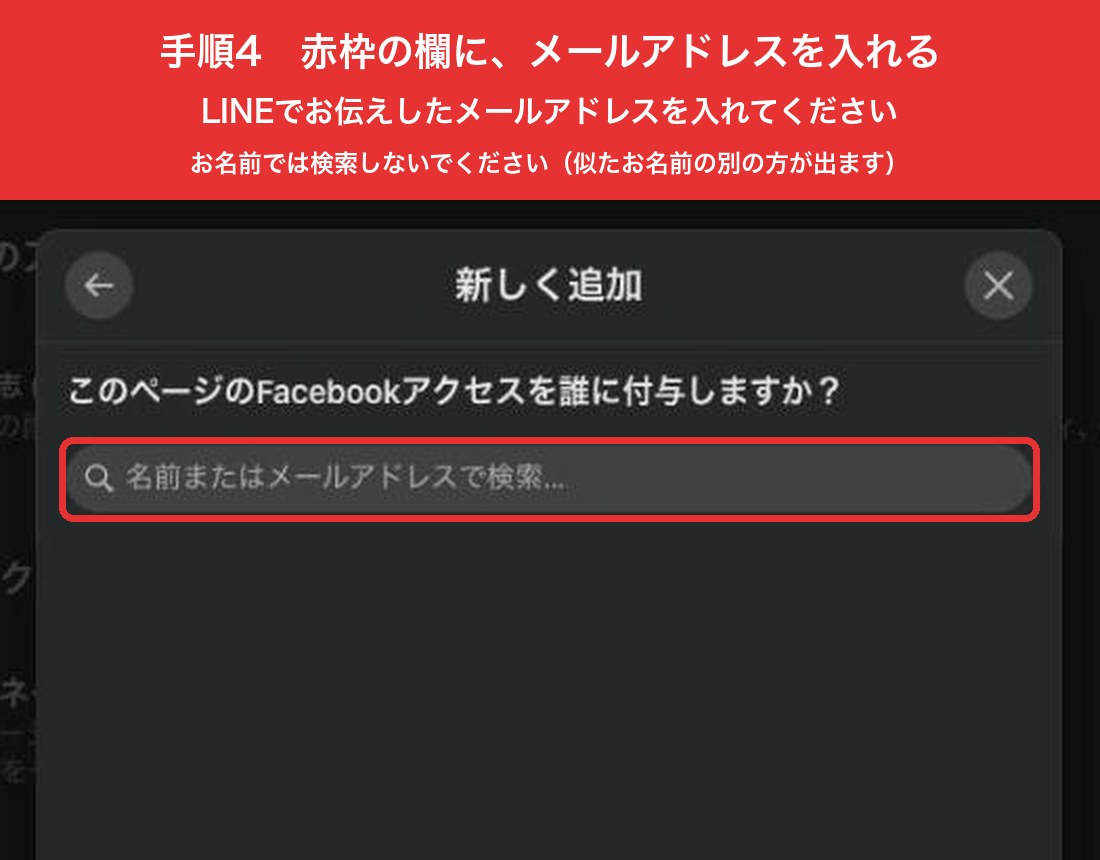
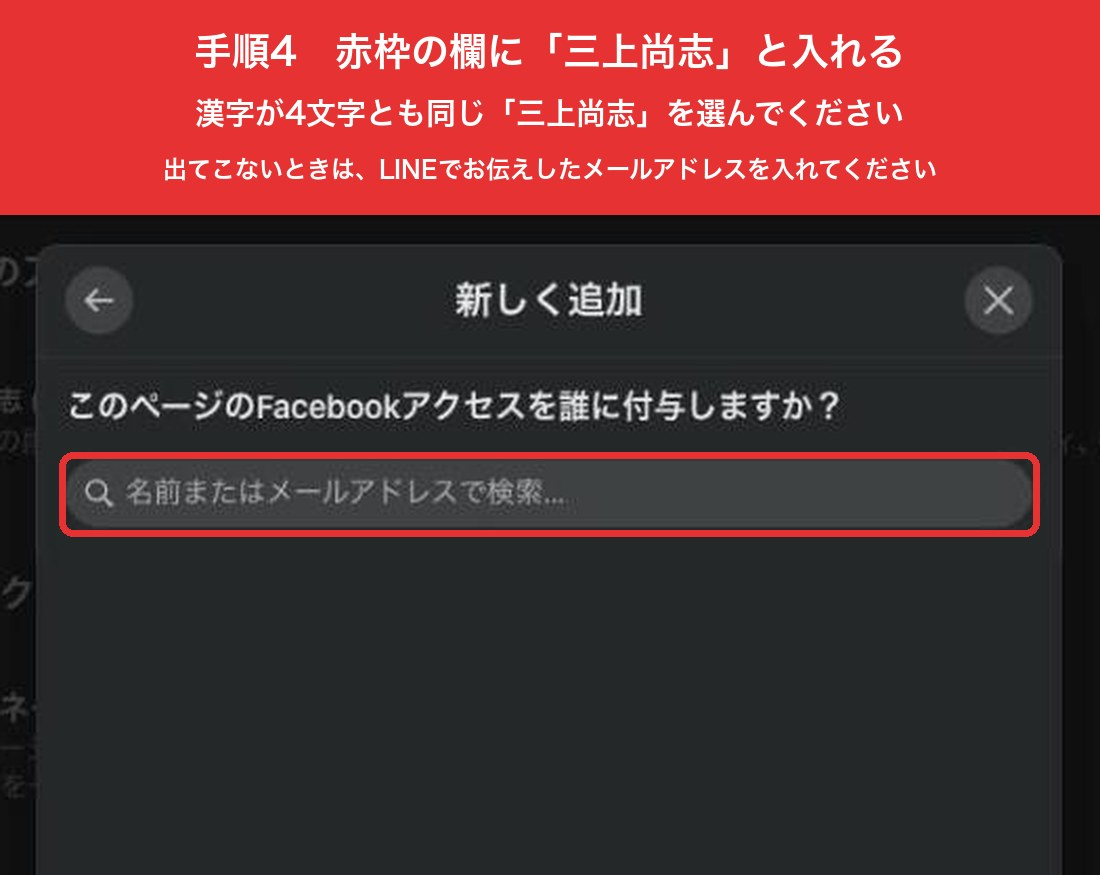
かんたん版：手順4を名前の検索を先に（メールアドレスは予備）。終わったあとの確認を追記
メールアドレスの検索は試し用ページで「マッチする人はいません」と出たため、主の方法にしない。

diff --git a/kengen/kantan/index.html b/kengen/kantan/index.html
@@ -102,7 +102,7 @@ a.ext{color:inherit;text-decoration:underline;text-underline-offset:3px;word-bre
 <li><a href="#s1">手順1　「ページアクセス」を開く</a></li>
 <li><a href="#s2">手順2　「追加」を押す</a></li>
 <li><a href="#s3">手順3　「次へ」を押す</a></li>
-<li><a href="#s4">手順4　メールアドレスで検索する</a></li>
+<li><a href="#s4">手順4　「三上尚志」を検索して選ぶ</a></li>
 <li><a href="#s5">手順5　全権限をオンにして許可する</a></li>
 <li><a href="#done">終わったら</a></li>
 <li><a href="#trouble">うまくいかないとき</a></li>
@@ -114,7 +114,7 @@ a.ext{color:inherit;text-decoration:underline;text-underline-offset:3px;word-bre
 <div class="box info"><b class="h">必要なもの</b><ul>
 <li>パソコン</li>
 <li>お店のFacebookページを管理しているFacebookアカウント（ログインできる状態）</li>
-<li>しっとるからLINEでお伝えしたメールアドレス（手順4で使います）</li>
+<li>しっとるからLINEでお伝えしたメールアドレス（手順4で、お名前が出てこないときに使います）</li>
 </ul></div>
 <div class="box warn"><b class="h">しっとるにお伝えいただかないもの</b><ul>
 <li>Facebookのパスワード</li>
@@ -157,13 +157,14 @@ a.ext{color:inherit;text-decoration:underline;text-underline-offset:3px;word-bre
 </section>
 
 <section class="step one" id="s4">
-<h2><span class="no">手順4</span>メールアドレスで検索する</h2>
+<h2><span class="no">手順4</span>「三上尚志」を検索して選ぶ</h2>
 <ol>
-<li>検索の欄に、<b>しっとるからLINEでお伝えしたメールアドレス</b>を入れます。</li>
-<li>「三上尚志」と出たら、それを押します。</li>
+<li>検索の欄に <b>三上尚志</b> と入れます。</li>
+<li>出てきた中から、<b>漢字が4文字とも同じ「三上尚志」</b>を押します。</li>
 </ol>
-<div class="box warn"><b class="h">お名前では検索しないでください</b><p>お名前で検索すると、似たお名前の別の方が何人も出てきます。まちがえて別の方に権限を渡さないよう、必ずメールアドレスで検索してください。</p></div>
-<figure><img src="k4.jpg" alt="名前またはメールアドレスで検索する欄" width="1100" height="860" loading="lazy"><figcaption>赤枠の欄に、LINEでお伝えしたメールアドレスを入れます</figcaption></figure>
+<div class="box warn"><b class="h">似たお名前の別の方が出てきます</b><p>「三上隆史」「三上貴史」など、読みが近い別の方が並びます。漢字が「三上尚志」と完全に同じものだけを選んでください。</p></div>
+<div class="box info"><b class="h">「三上尚志」が出てこないとき</b><p>検索の欄を消して、しっとるからLINEでお伝えした<b>メールアドレス</b>を入れてみてください。それでも出てこなければ、そこで止めてLINEでお知らせください。</p></div>
+<figure><img src="k4.jpg" alt="名前またはメールアドレスで検索する欄" width="1100" height="875" loading="lazy"><figcaption>赤枠の欄に「三上尚志」と入れます</figcaption></figure>
 </section>
 
 <section class="step one" id="s5">
@@ -179,7 +180,7 @@ a.ext{color:inherit;text-decoration:underline;text-underline-offset:3px;word-bre
 
 <section id="done">
 <h2>終わったら</h2>
-<div class="box ok"><p>LINEで「追加しました」とお知らせください。しっとるで確認して、続きの設定を進めます。</p></div>
+<div class="box ok"><p>LINEで「追加しました」とお知らせください。しっとるに招待が届いたかを確認して、お返事します。</p><p>届いていない場合は、別の方を選ばれた可能性があります。そのときは、取り消し方をすぐにご案内します。</p></div>
 </section>
 
 <section id="trouble">
@@ -187,7 +188,7 @@ a.ext{color:inherit;text-decoration:underline;text-underline-offset:3px;word-bre
 <div class="tbl"><table>
 <tr><th>起きたこと</th><th>していただくこと</th></tr>
 <tr><td>手順1の画面に「追加」が無く、「全権限を持っている人」「管理」と出ている</td><td>そこで止めて、その画面の写真をLINEで送ってください。別の方法をご案内します</td></tr>
-<tr><td>手順4で「三上尚志」が出てこない</td><td>そこで止めて、LINEでお知らせください</td></tr>
+<tr><td>手順4で、お名前でもメールアドレスでも「三上尚志」が出てこない</td><td>そこで止めて、LINEでお知らせください。別の方法をご案内します</td></tr>
 <tr><td>右上のアイコンを押しても、お店のページの名前が出ない</td><td>「すべてのプロフィールを見る」を押して探してください。それでも無ければ、その画面の写真を送ってください</td></tr>
 <tr><td>画面が見本と違う</td><td>そこで止めて、その画面の写真を送ってください</td></tr>
 </table></div>
